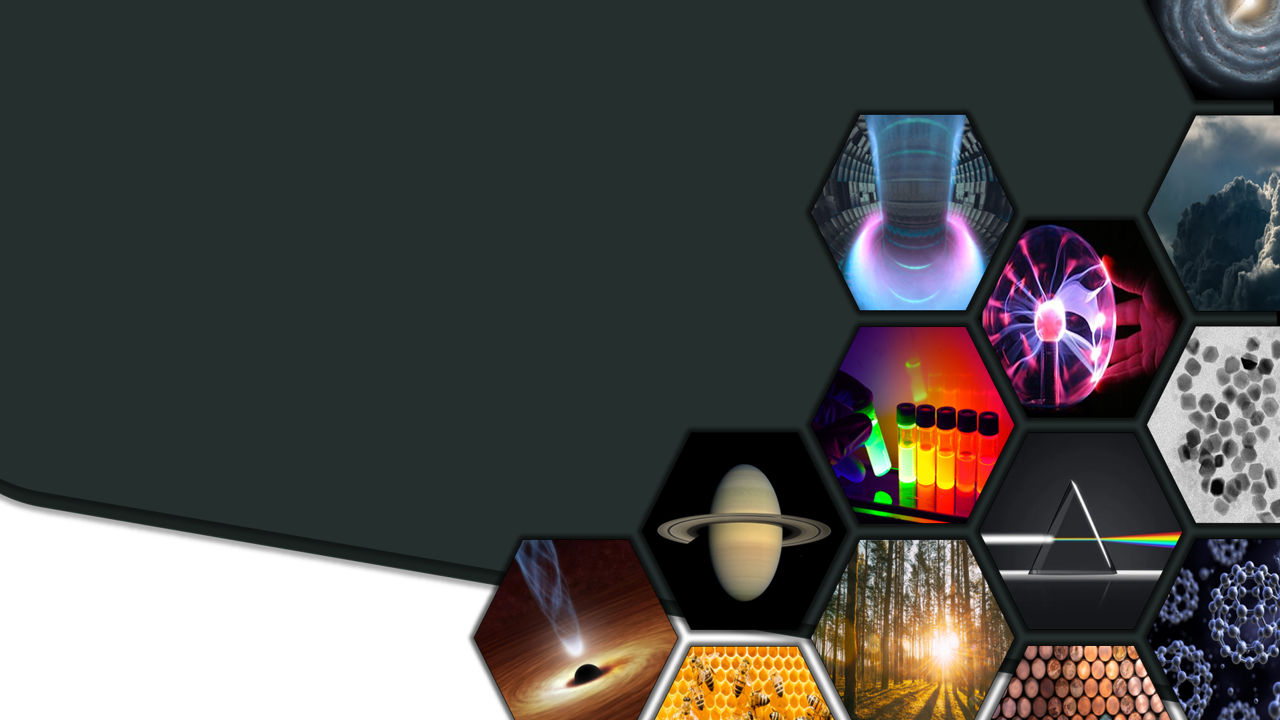
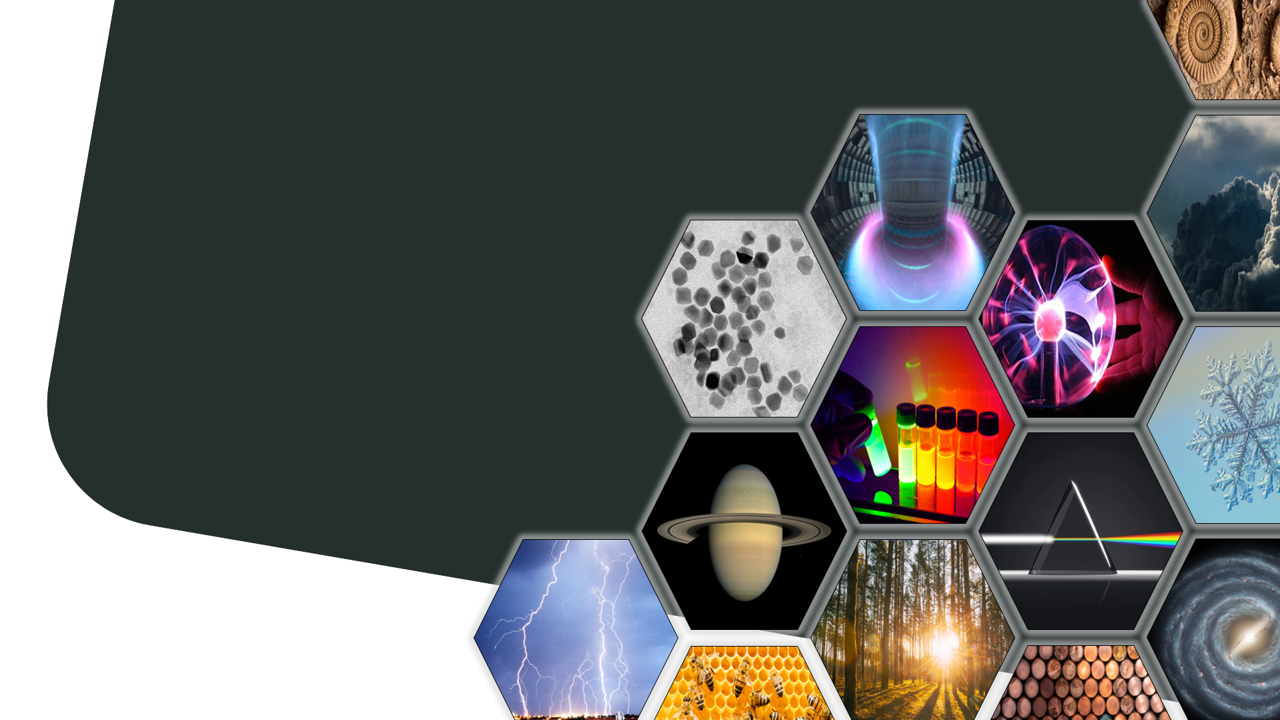
Add files via upload

diff --git a/js/frsm.js b/js/frsm.js
@@ -102,55 +102,6 @@ var GOATCOUNTER_CODE = 'franksm';
       stick();
    }
 
-   /* Scroll reveal (2.0.9): cards and blocks below the first screen fade up
-      when they come into view. Things already visible are left alone, so
-      nothing flashes; the hero has its own CSS entrance. */
-   var reduce = window.matchMedia && window.matchMedia('(prefers-reduced-motion: reduce)').matches;
-   if ('IntersectionObserver' in window && !reduce) {
-      var SEL = '.frsm-card, .lab-tool, .tl-item, .lab-panel, .game-stage, .game-learn, .pano-section, .box_main, .container_main, ' +
-         '.about-sub, .chips, .profile-links, .lab-hub-title, .pub-item, .contact-info, .contact-form, .formula, .frsm-lead';
-      var vh = window.innerHeight || 800, items = [];
-      document.querySelectorAll(SEL).forEach(function (el) {
-         if (el.closest('.lab-top, .game-over, .reveal')) return;     // nested inside something that already animates
-         if (el.getBoundingClientRect().top < vh * 0.92) return;      // already on screen
-         el.classList.add('reveal');
-         items.push(el);
-      });
-      if (items.length) {
-         document.documentElement.classList.add('js-reveal');
-         var done = function (e) {
-            if (e.target !== this || e.propertyName !== 'opacity') return;
-            this.classList.remove('reveal', 'in'); this.style.removeProperty('--rd');
-            this.removeEventListener('transitionend', done);
-         };
-         var ro = new IntersectionObserver(function (ents) {
-            var k = 0;
-            ents.forEach(function (en) {
-               if (!en.isIntersecting) return;
-               var el = en.target;
-               el.style.setProperty('--rd', Math.min(k++, 5) * 0.08 + 's');   // small stagger inside a row
-               el.classList.add('in');
-               el.addEventListener('transitionend', done);
-               ro.unobserve(el);
-            });
-         }, { rootMargin: '0px 0px -8% 0px', threshold: 0.08 });
-         items.forEach(function (el) { ro.observe(el); });
-         /* safety net: if the observer never fires (old browser, embedded page…), reveal by position on scroll */
-         var sweep = function () {
-            var left = 0, h = window.innerHeight;
-            items.forEach(function (el) {
-               if (!el.classList.contains('reveal') || el.classList.contains('in')) return;
-               left++;
-               var r = el.getBoundingClientRect();
-               if (r.top < h && r.bottom > 0) { el.classList.add('in'); el.addEventListener('transitionend', done); ro.unobserve(el); }
-            });
-            if (!left) window.removeEventListener('scroll', onScroll);
-         };
-         var tick = 0, onScroll = function () { if (!tick) tick = setTimeout(function () { tick = 0; sweep(); }, 120); };
-         window.addEventListener('scroll', onScroll, { passive: true });
-      }
-   }
-
    /* Lab tools menu: bring the current tool into view on small screens */
    var cur = document.querySelector('.lab-subnav a.active');
    if (cur && cur.parentNode.scrollWidth > cur.parentNode.clientWidth) {
